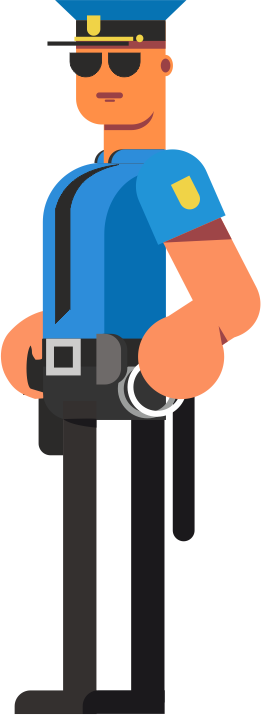
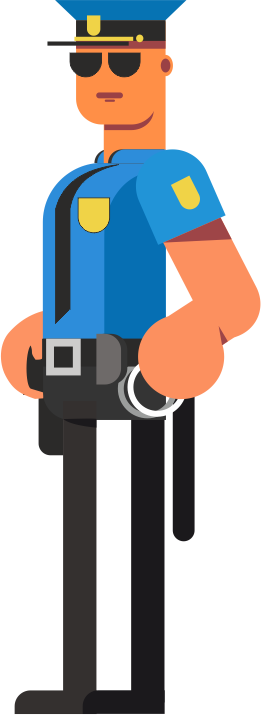
add second animation

Changed region(s): [[0.2759, 0.2769, 0.4291, 0.3385]]

diff --git a/main.css b/main.css
@@ -7,6 +7,7 @@ body {
     width: 1100px;
     margin: 50px auto 0 auto;
     overflow: hidden;
+    animation: street 2s linear 22s forwards;
 }
 
 .crown-tree {
@@ -23,7 +24,16 @@ body {
     height: 100%;
 }
 
-.street:before {
+@keyframes street {
+    0% {
+        opacity: 1;
+    }
+    100% {
+        opacity: 0;
+    }
+}
+
+.street::before {
     content: "";
     position: absolute;
     background: url("images/bird.png") no-repeat 50% 50%;
@@ -35,7 +45,7 @@ body {
     animation: bird-second 2s infinite steps(1, start);
 }
 
-.street:after {
+.street::after {
     content: "";
     position: absolute;
     background: url("images/bird.png") no-repeat 50% 50%;
@@ -68,6 +78,87 @@ body {
     top: -110px;
     left: 820px;
     transform: scale(0.5);
+}
+
+.container::after {
+    content: "";
+    width: 261px;
+    height: 350px;
+    position: absolute;
+    background: url("images/policmen.png") no-repeat;
+    top: 100px;
+    left: 750px;
+    opacity: 0;
+    animation: policemen 2s forwards 24s;
+}
+
+.box {
+    position: absolute;
+}
+
+.box::before {
+    content: "";
+    position: absolute;
+    top: -220px;
+    left: 820px;
+    /*border: 2px solid red;*/
+    width: 30px;
+    height: 30px;
+    /*background-image: linear-gradient(65deg, transparent 15%, rgba(255, 255, 255, 0.2) 35%, transparent 55%);*/
+    border-radius: 0 0 50% 50%;
+    animation: flare 1s linear forwards ;
+    animation-iteration-count: 1;
+}
+
+
+@keyframes blick {
+    0% {
+        background: linear-gradient(315deg, transparent 15%, #fff 35%, transparent 55%) no-repeat;
+    }
+    25% {
+        background: linear-gradient(315deg, transparent 35%, #fff 55%, transparent 75%) no-repeat;
+    }
+    50% {
+        background: linear-gradient(315deg, transparent 55%, #fff 75%, transparent 95%) no-repeat;
+    }
+    100% {
+        background: linear-gradient(315deg, transparent 75%, #fff 95%, transparent 105%) no-repeat;
+    }
+}
+
+
+@keyframes flare
+{
+    0%   { background-position: -10px; }
+    100 { background-position: 50px; }
+}
+
+
+.container:before {
+    content: "Счастливого пути!";
+    padding-top: 130px;
+    padding-right: 70px;
+    font-size: 26px;
+    font-weight: 700;
+    text-align: center;
+    background: url("images/voice.png") no-repeat 50% 50%;
+    background-size: 65%;
+    width: 461px;
+    height: 200px;
+    position: absolute;
+    top: -60px;
+    left: 350px;
+    opacity: 0;
+    animation: policemen 8s backwards 26s;
+}
+
+@keyframes policemen {
+    0% {
+        opacity: 0;
+    }
+    100% {
+        opacity: 1;
+    }
 }
 
 .fly {

diff --git a/index.html b/index.html
@@ -6,35 +6,43 @@
 
     <link rel="stylesheet" href="main.css">
     <link href="https://fonts.googleapis.com/css?family=Open+Sans:300,300i,400,700|Raleway:200" rel="stylesheet">
+    <script src="js/jquery-3.3.1.js"></script>
 </head>
 <body>
-<div class="container">
-<div class="street">
-    <img class="street-image" src="images/bg.png" alt="">
-    <div class="policeman"></div>
-    <div class="fly"></div>
-    <div class="crown-tree"></div>
-    <div class="light">
-        <div class="container1">
-            <ul>
-                <li></li>
-                <li></li>
-                <li></li>
-            </ul>
-        </div>
-        <div class="container2">
-            <div class="text text-first">
-                Красный свет - проезда нет
-            </div>
-            <div class="text text-second">
-                Желтый - будь готов к пути
-            </div>
-            <div class="text text-third">
-                А зеленый свет - кати
+    <div class="container">
+        <div class="street">
+            <img class="street-image" src="images/bg.png" alt="">
+            <div class="policeman"></div>
+            <div class="fly"></div>
+            <div class="crown-tree"></div>
+            <div class="light">
+                <div class="container1">
+                    <ul>
+                        <li></li>
+                        <li></li>
+                        <li></li>
+                    </ul>
+                </div>
+                <div class="container2">
+                    <div class="text text-first">
+                        Красный свет - проезда нет
+                    </div>
+                    <div class="text text-second">
+                        Желтый - будь готов к пути
+                    </div>
+                    <div class="text text-third">
+                        А зеленый свет - кати
+                    </div>
+                </div>
             </div>
         </div>
     </div>
-</div>
-</div>
+    <div class="box">
+        <span class="blink_on"></span>
+    </div>
+    <span class="shiny">
+        <span class="inner-shiny">ДвижКод</span>
+    </span>
+
 </body>
 </html>
